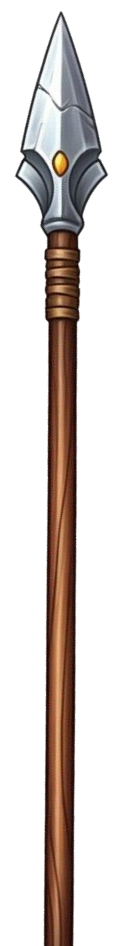
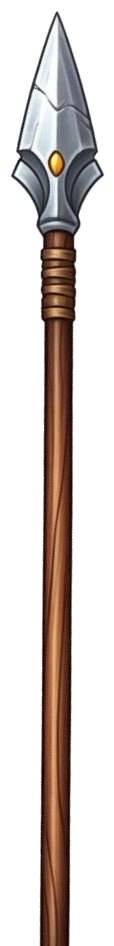
spikesss

Changed region(s): [[0.1053, 0.0, 0.8947, 1.0]]

diff --git a/index.html b/index.html
@@ -57,16 +57,15 @@
 
                 this.runBouncePhase = 0;
                 this.heroBaseY = 0;
-
-                this.spikeOriginalWidth = 118;
-                this.spikeOriginalHeight = 946;
             }
 
             preload() {
                 this.load.image('hero', 'assets/hero.png');
                 this.load.image('rock', 'assets/rock.png');
                 this.load.image('hat', 'assets/hat.png');
-                this.load.image('spike', 'assets/spike.png');
+                this.load.image('spike1', 'assets/spike1.png');
+                this.load.image('spike2', 'assets/spike2.png');
+                this.load.image('spike3', 'assets/spike3.png');
                 this.load.image('floor', 'assets/floor.png');
                 this.load.image('titlepic', 'assets/titlepic.png');
 
@@ -408,35 +407,28 @@
             }
 
             spawnSpike() {
-                const heights = [0.2, 0.4, 0.6];
+                const spikeTypes = ['spike3', 'spike2', 'spike1']; // short, medium, tall
                 const positions = ['ground', 'ceiling'];
 
-                const height = Phaser.Utils.Array.GetRandom(heights);
+                const spikeType = Phaser.Utils.Array.GetRandom(spikeTypes);
                 const position = Phaser.Utils.Array.GetRandom(positions);
-
-                const gameAreaUsableHeight = this.gameAreaHeight - 200;
-                const spikeHeight = gameAreaUsableHeight * height;
-                const scaleY = spikeHeight / this.spikeOriginalHeight;
-                const scaleX = scaleY;
-
-                const spikeWidth = this.spikeOriginalWidth * scaleX;
 
                 let spike;
                 if (position === 'ground') {
-                    spike = this.spikes.create(1100, this.floorY, 'spike');
+                    spike = this.spikes.create(1100, this.floorY, spikeType);
                     spike.setOrigin(0.5, 1);
-                    spike.setScale(scaleX, scaleY);
+                    spike.setScale(0.5);
                 } else {
-                    spike = this.spikes.create(1100, this.ceilingY + 125, 'spike');
+                    spike = this.spikes.create(1100, this.ceilingY + 125, spikeType);
                     spike.setOrigin(0.5, 0);
-                    spike.setScale(scaleX, scaleY);
+                    spike.setScale(0.5);
                     spike.setFlipY(true);
                 }
 
                 spike.body.setAllowGravity(false);
                 spike.body.setImmovable(true);
 
-                console.log('Spawning', position, 'spike - Width:', spikeWidth, 'Height:', spikeHeight, 'Y:', spike.y);
+                console.log('Spawning', position, spikeType, '- Y:', spike.y);
             }
 
             hitSpike(hero, spike) {
@@ -444,8 +436,8 @@
             }
 
             boulderHitSpike(boulder, spike) {
-                const flyingSpike = this.flyingSpikes.create(spike.x, spike.y, 'spike');
-                flyingSpike.setScale(spike.scaleX, spike.scaleY);
+                const flyingSpike = this.flyingSpikes.create(spike.x, spike.y, spike.texture.key);
+                flyingSpike.setScale(0.5);
                 flyingSpike.setFlipY(spike.flipY);
                 flyingSpike.body.setVelocity(
                     Phaser.Math.Between(300, 600),
